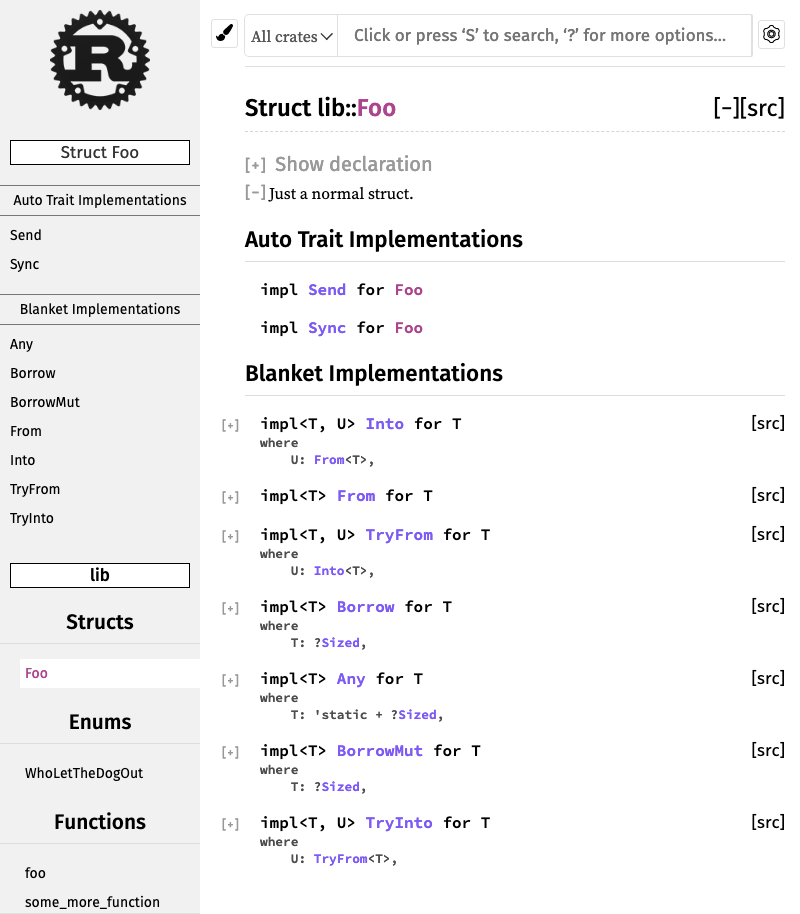
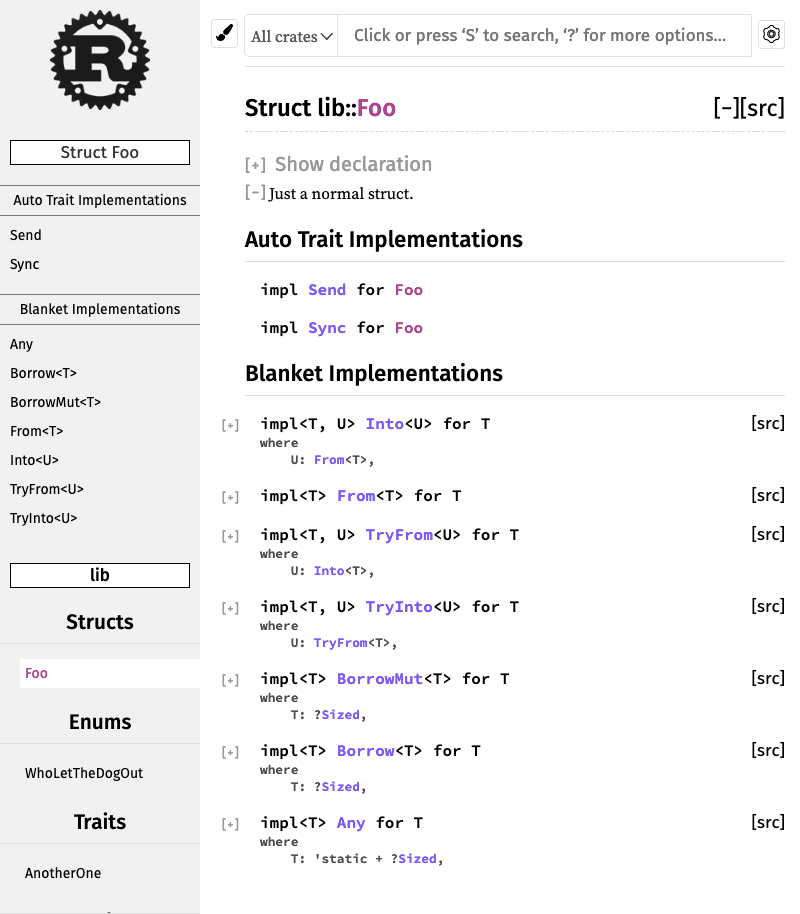
Add more tests

diff --git a/test-docs/src/lib.rs b/test-docs/src/lib.rs
@@ -37,3 +37,15 @@ pub enum WhoLetTheDogOut {
 pub fn some_more_function<T: fmt::Debug>(t: &T) -> String {
     format!("{:?}", t)
 }
+
+/// Woohoo! A trait!
+pub trait AnotherOne {
+    /// Some func 1.
+    fn func1();
+
+    /// Some func 2.
+    fn func2();
+
+    /// Some func 3.
+    fn func3();
+}
